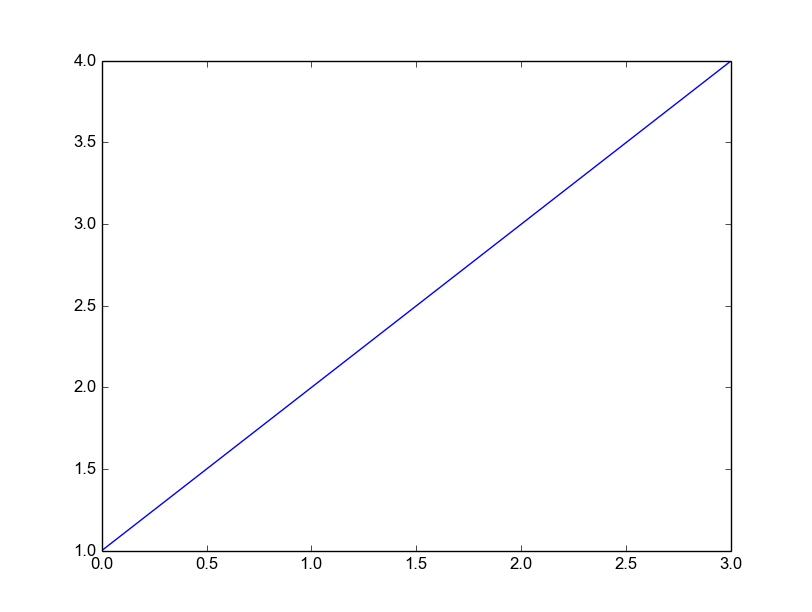
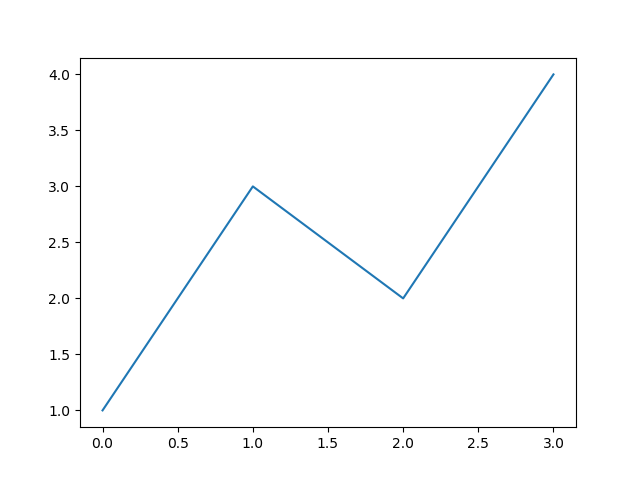
Update minimal example to show a non-straight line.

diff --git a/examples/basic.cpp b/examples/basic.cpp
@@ -1,4 +1,5 @@
 #define _USE_MATH_DEFINES
+#include <iostream>
 #include <cmath>
 #include "../matplotlibcpp.h"
 
@@ -30,5 +31,7 @@ int main()
 	// Enable legend.
 	plt::legend();
 	// save figure
-	plt::save("./basic.png");
+	const char* filename = "./basic.png";
+	std::cout << "Saving result to " << filename << std::endl;;
+	plt::save(filename);
 }

diff --git a/README.md b/README.md
@@ -13,7 +13,7 @@ Complete minimal example:
 #include "matplotlibcpp.h"
 namespace plt = matplotlibcpp;
 int main() {
-    plt::plot({1,2,3,4});
+    plt::plot({1,3,2,4});
     plt::show();
 }
 ```
